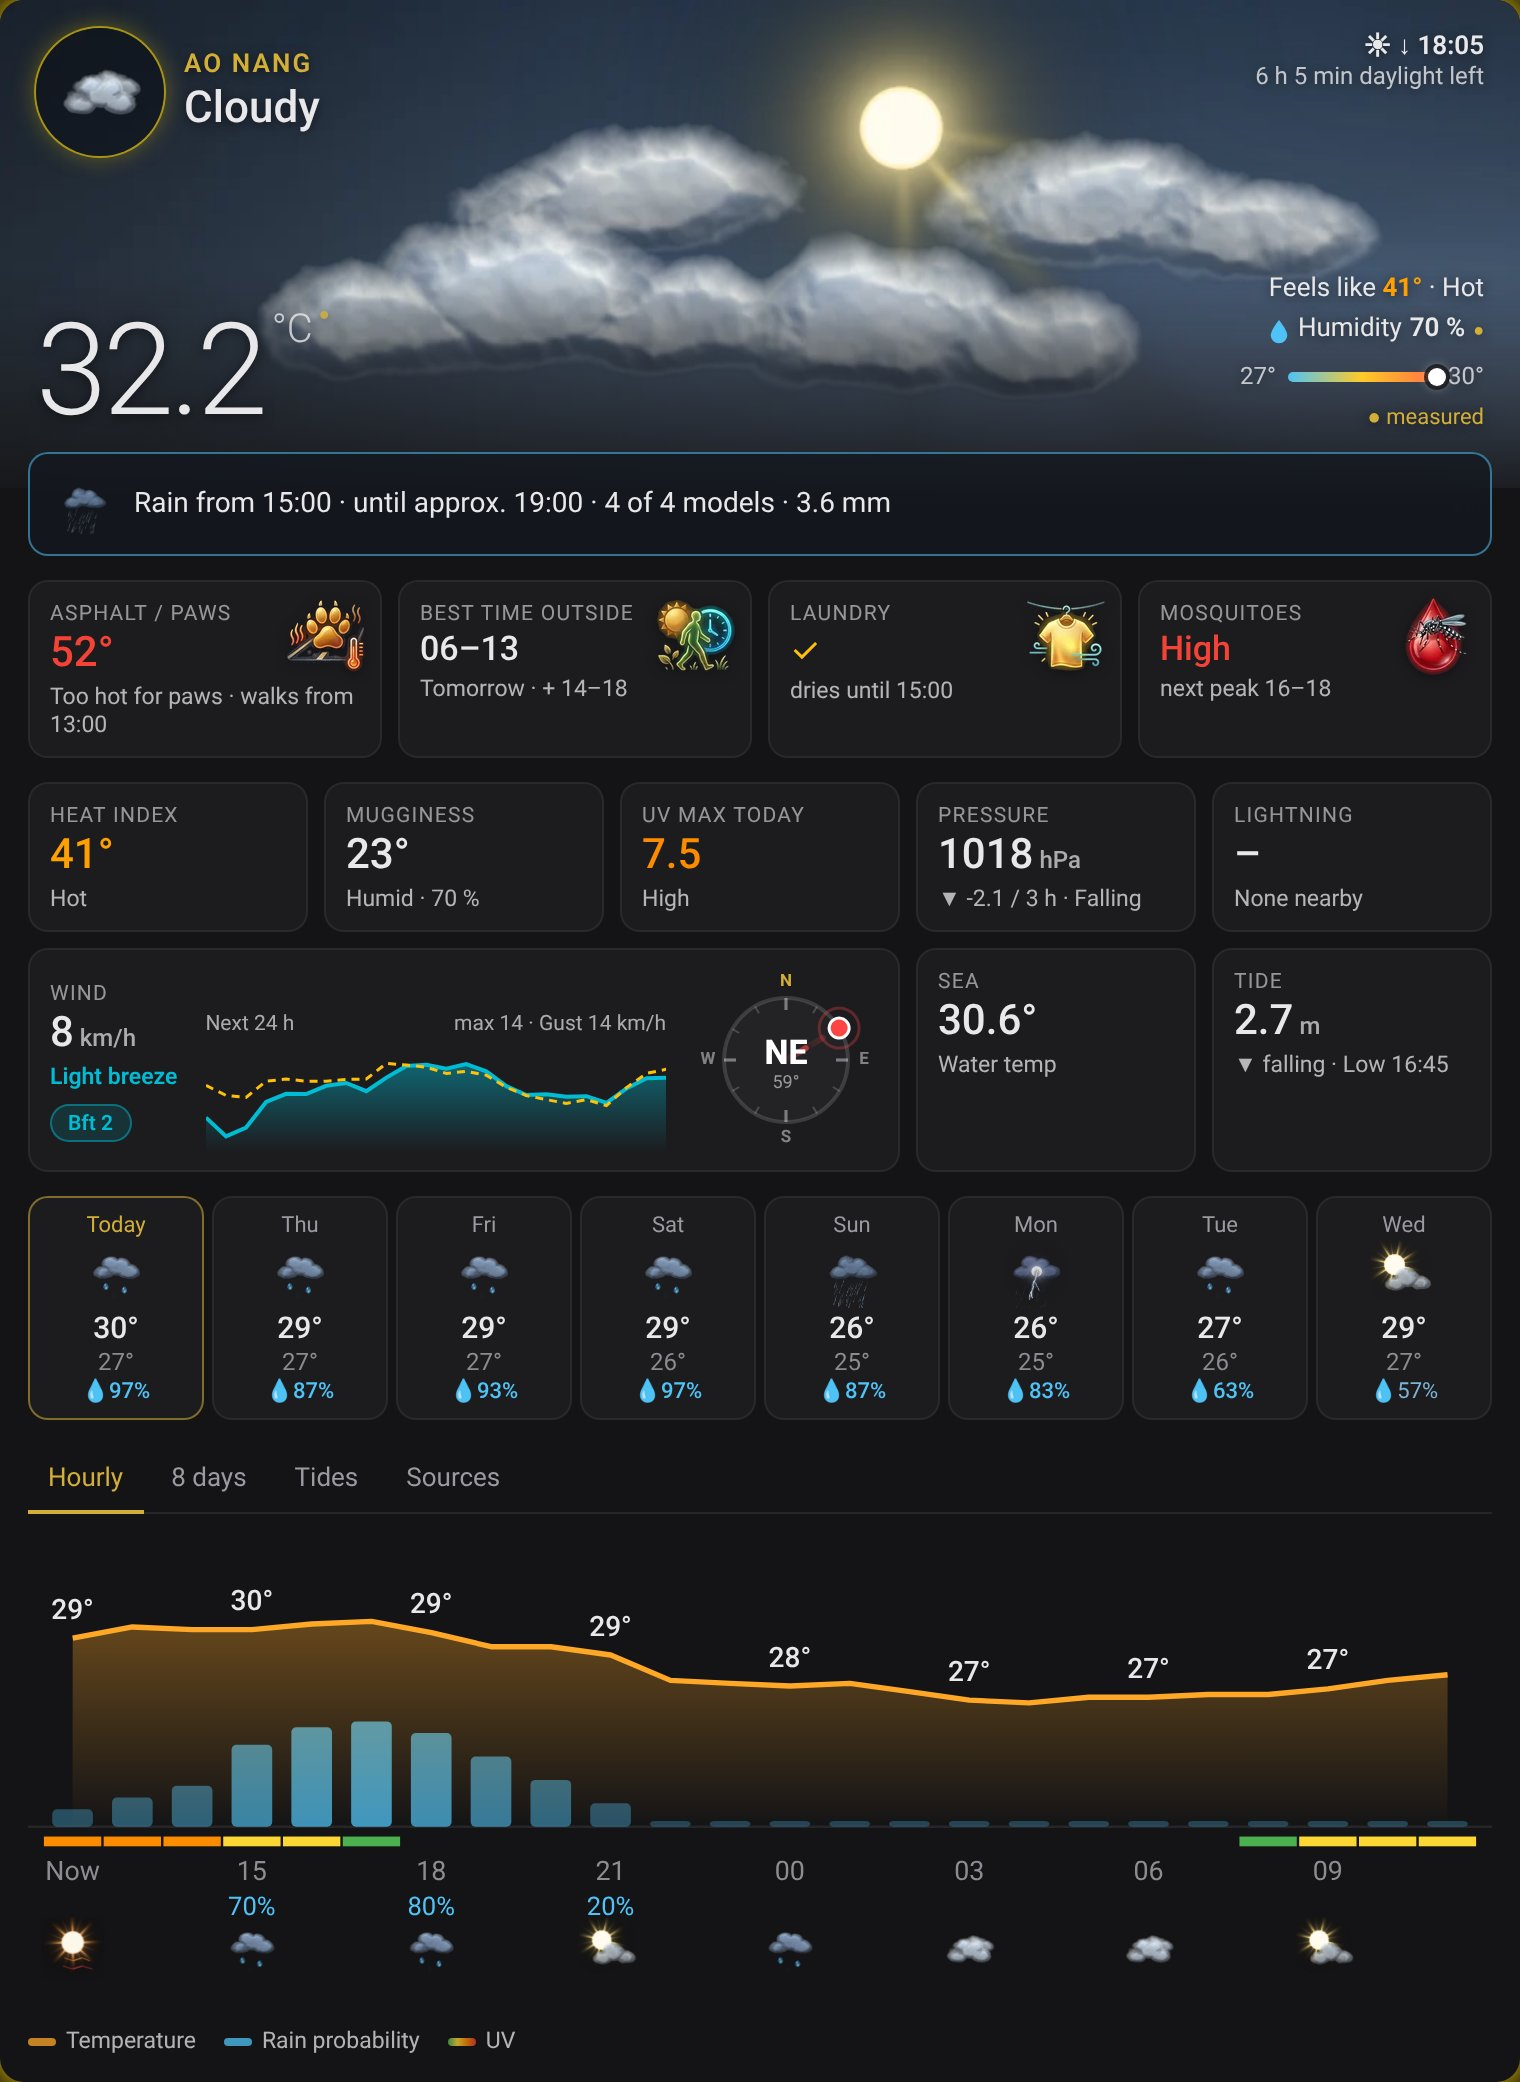
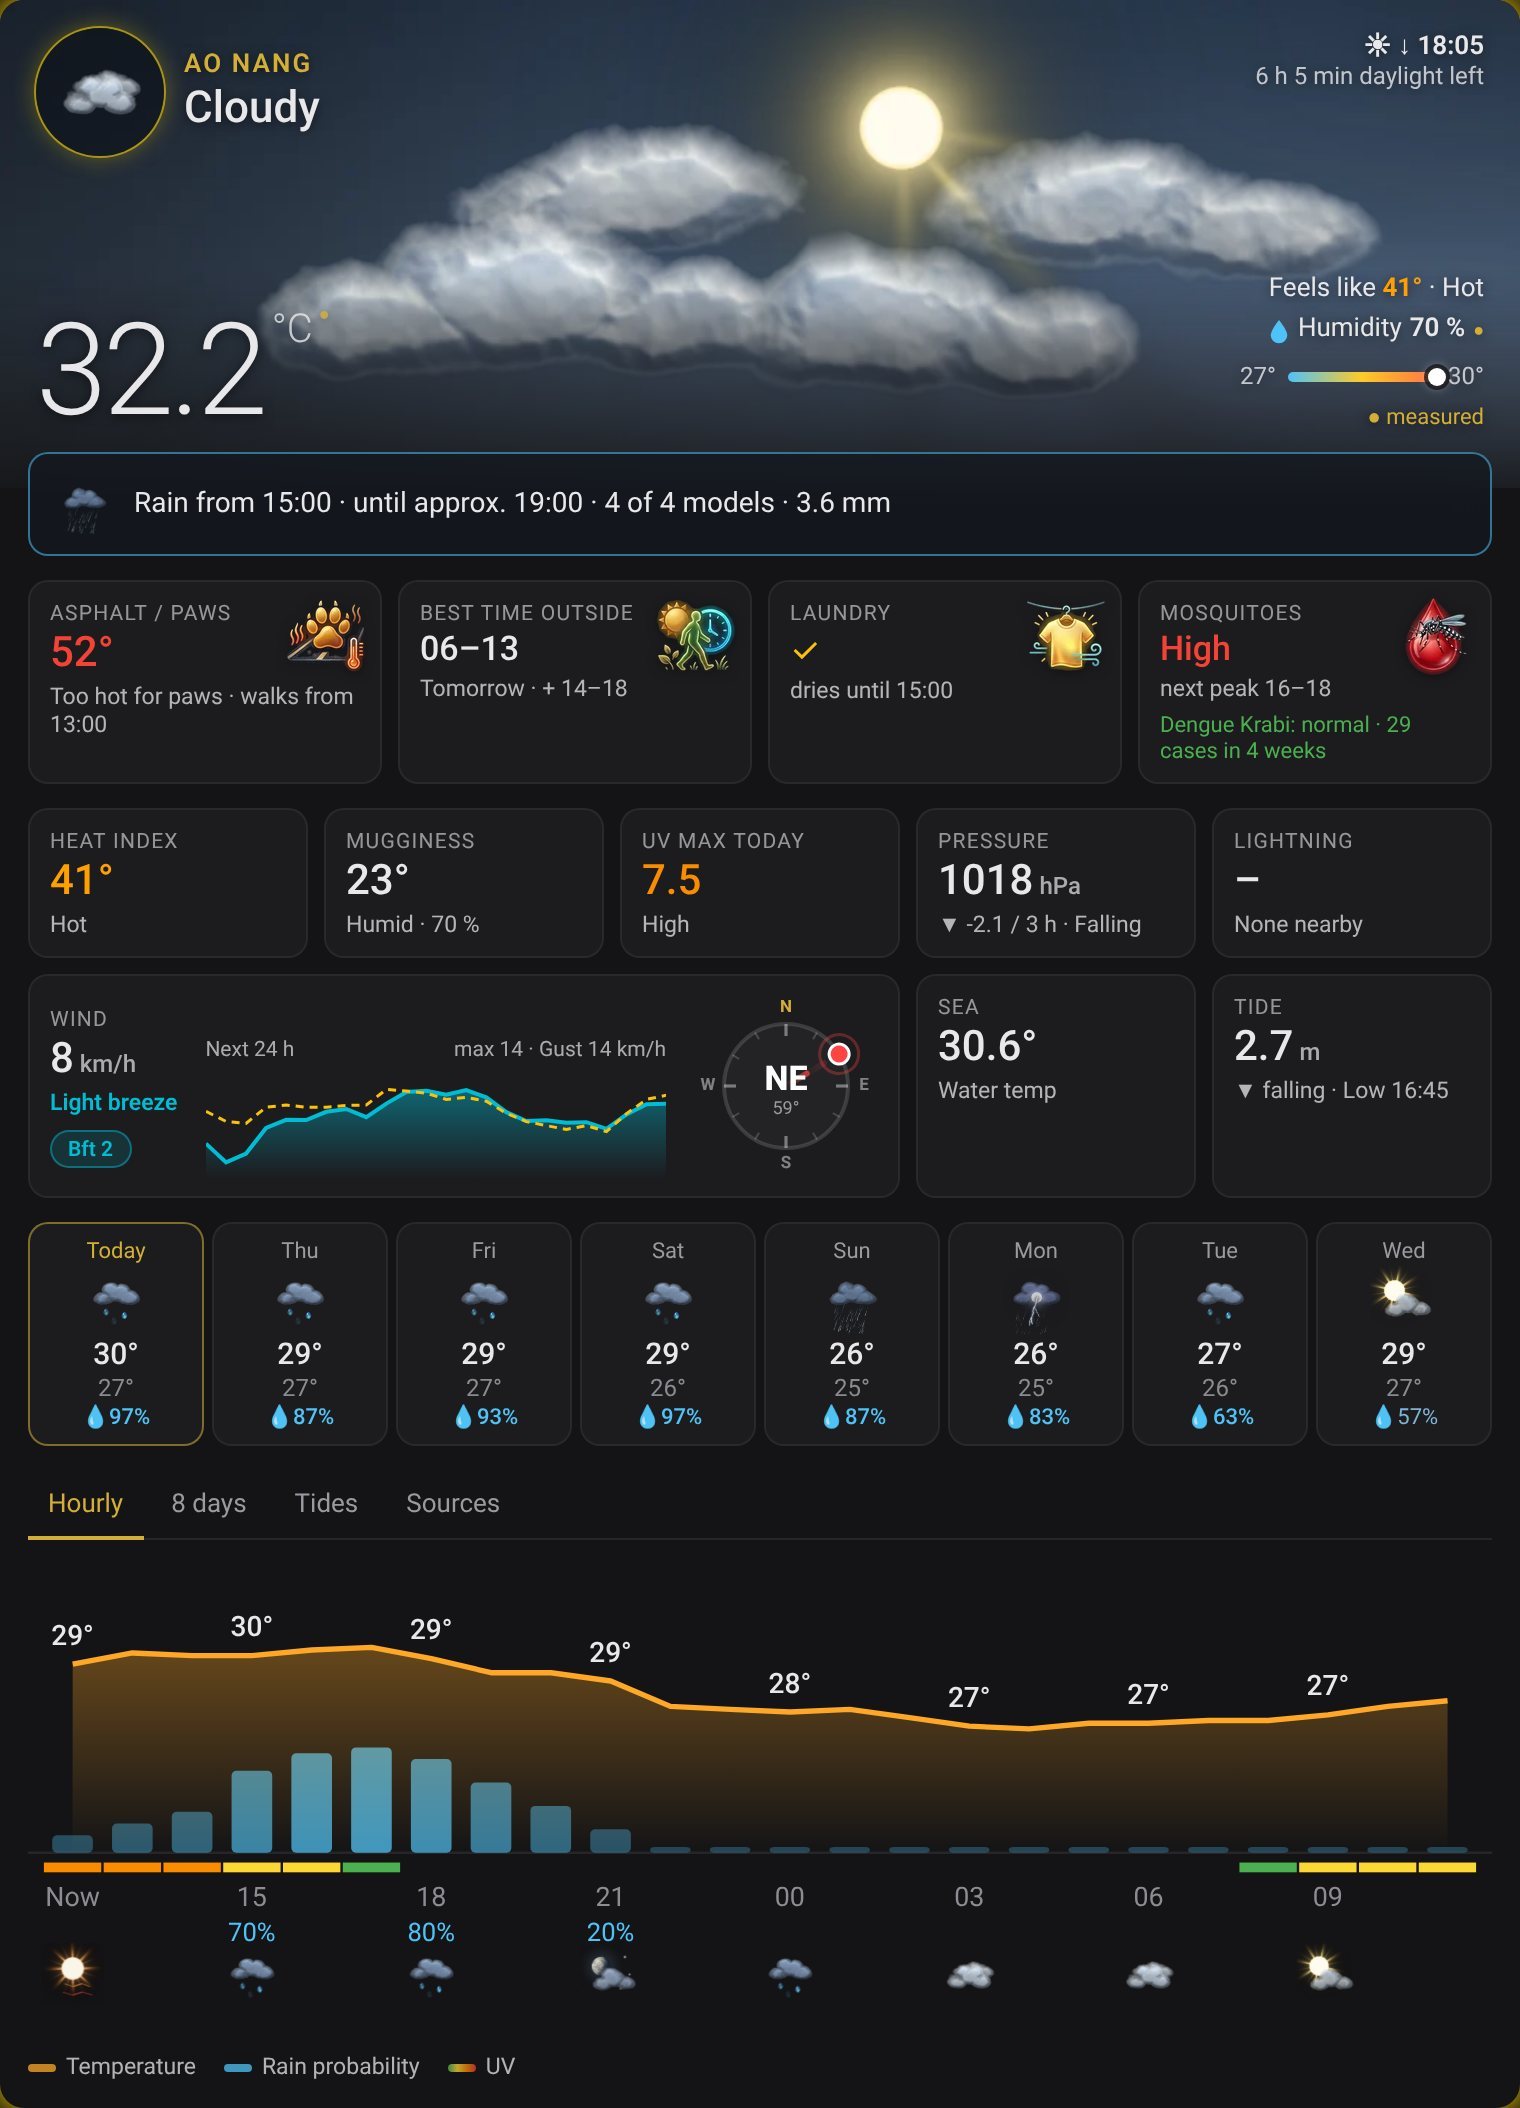
README: screenshots with the dengue line, release badge, Mosquito Watch Thailand name

diff --git a/README.md b/README.md
@@ -8,7 +8,7 @@ Monsoon downpours · heat stress · thunderstorms · cyclones · tides · and wh
 <p align="center">
   <a href="https://github.com/hacs/integration"><img src="https://img.shields.io/badge/HACS-Custom-41BDF5.svg" alt="HACS Custom"></a>
   <img src="https://img.shields.io/badge/Home%20Assistant-2024.1%2B-03a9f4" alt="Home Assistant 2024.1+">
-  <img src="https://img.shields.io/github/v/release/mb26-dev/ha-tropical-weather?include_prereleases" alt="Release">
+  <a href="https://github.com/mb26-dev/ha-tropical-weather/releases"><img src="https://img.shields.io/github/v/release/mb26-dev/ha-tropical-weather?label=release&color=d4af37" alt="Release"></a>
   <img src="https://img.shields.io/badge/languages-19-d4af37" alt="19 languages">
   <a href="https://ko-fi.com/mb26dev"><img src="https://img.shields.io/badge/Ko--fi-Buy%20me%20a%20coffee-FF5E5B?logo=ko-fi&logoColor=white" alt="Buy me a coffee on Ko-fi"></a>
 </p>
@@ -127,7 +127,7 @@ lightning_counter: sensor.home_lightning_counter
 lightning_azimuth: sensor.home_lightning_azimuth
 cyclone: sensor.nearest_tropical_cyclone
 observed_condition: input_select.sky_check   # what a camera sees right now
-dengue: sensor.dengue_krabi_level            # Dengue Watch Thailand
+dengue: sensor.dengue_krabi_level            # Mosquito Watch Thailand
 alerts:                       # official warnings banner
   - auto                      # every CAP alert sensor
   - event.latest_alerts_from_thai_meteorological_department_tmd
@@ -159,7 +159,7 @@ radar_card:
 | `rain_consensus` | `true` | The rain outlook, laundry and best-time tiles ask every weather entity in `sources`, not only the main one. A model counts as "rain" with a probability of 50 % or more, or with 0.3 mm or more when it gives no probability. The outlook shows how many models agree; the laundry tile only counts an hour as wet when more than half of the models agree. |
 | `observed_condition` | – | An entity whose state is a weather condition seen right now (`sunny`, `partlycloudy`, `cloudy`, `rainy`, `pouring`, ...), for example an `input_select` filled from your outdoor cameras. For the current hour it overrules every model: hero condition (gold ● marker), rain outlook, laundry and best time. `unknown` or an old value is ignored. See [Observed weather from cameras](#observed-weather-from-cameras). |
 | `observed_max_age` | `45` | Minutes after which `observed_condition` counts as outdated. |
-| `dengue` | – | Level sensor of [Dengue Watch Thailand](https://github.com/mb26-dev/ha-dengue-watch). The mosquito tile then also shows the dengue situation in your province: *below normal*, *normal*, *elevated* or *high*, with the cases of the last 4 weeks. |
+| `dengue` | – | Dengue level sensor of [Mosquito Watch Thailand](https://github.com/mb26-dev/ha-dengue-watch). The mosquito tile then also shows the dengue situation in your province: *below normal*, *normal*, *elevated* or *high*, with the cases of the last 4 weeks. |
 | `alerts` | – | Warning entities for the banner. `auto` adds every CAP alert sensor (an entity with `severity` and `geocodes` or `identifier`). Also accepts event entities (feedreader), Meteoalarm and plain sensors whose state is the warning. |
 | `alert_areas` | – | Only show warnings whose `geocodes` or area description contain one of these codes or names (e.g. `TH-81`, `Krabi`). Warnings without area information are always shown. |
 | `alert_min_severity` | `minor` | Lowest severity shown: `minor`, `moderate`, `severe` or `extreme`. Warnings without a severity count as `minor`. |
